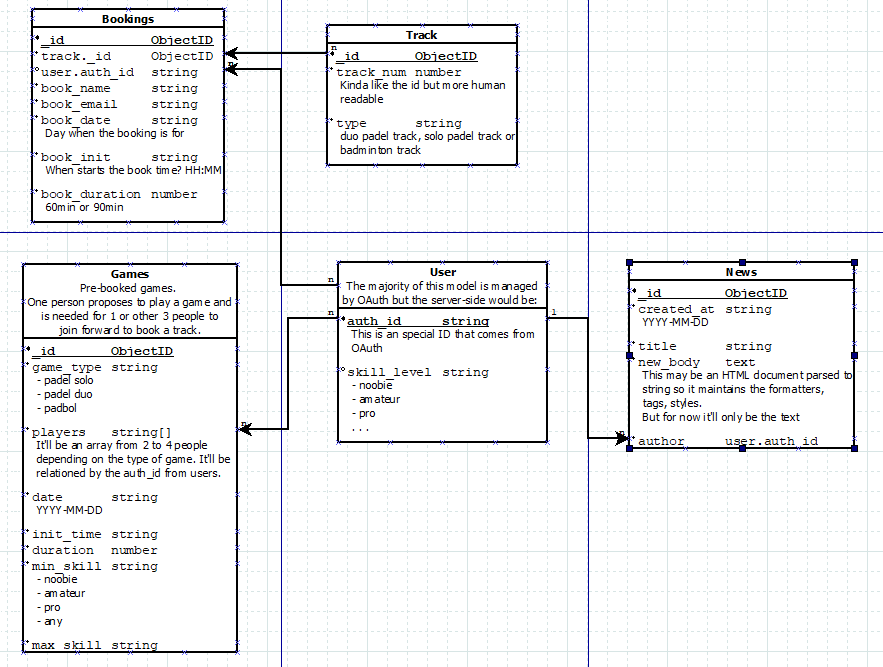
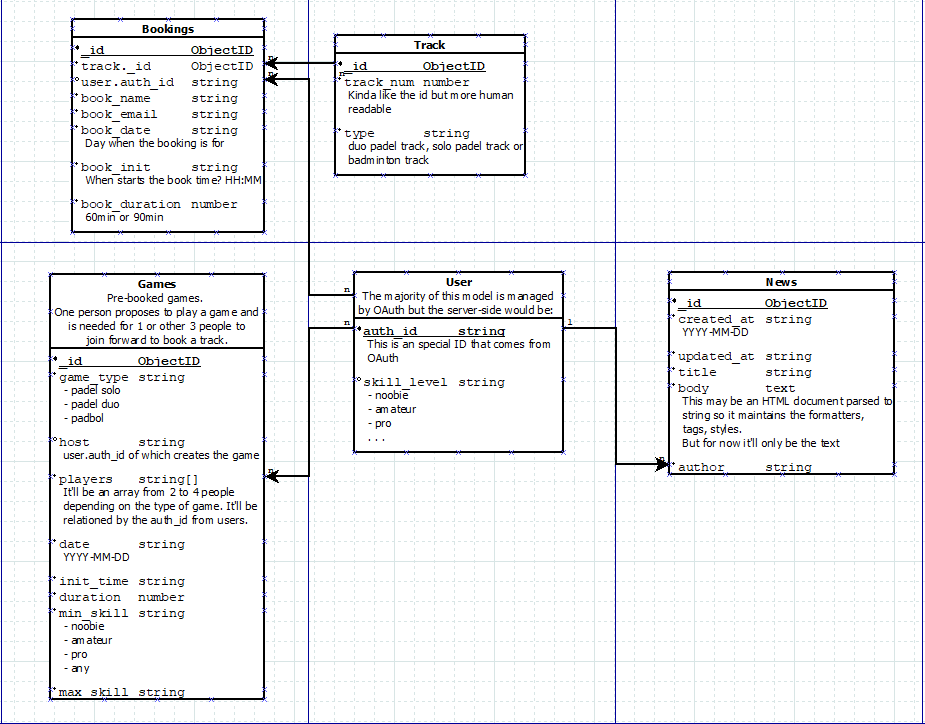
routers for every component

diff --git a/packages/back/src/components/bookings/booking.swagger.ts b/packages/back/src/components/bookings/booking.swagger.ts
@@ -1,5 +1,26 @@
 const TAG_NAME = 'Bookings';
 
+const bookingSchemaRequest = {
+  trackID: { type: 'string' },
+  userID: { type: 'string' },
+  bName: { type: 'string' },
+  bEmail: { type: 'string' },
+  initTime: { type: 'string' },
+  duration: { type: 'number' }
+};
+
+const bookingSchemaResponse = {
+  _id: { type: 'string' },
+  trackID: { type: 'string' },
+  userID: { type: 'string' },
+  bName: { type: 'string' },
+  bEmail: { type: 'string' },
+  bDate: { type: 'string' },
+  initTime: { type: 'string' },
+  endTime: { type: 'string' },
+  duration: { type: 'number' },
+};
+
 export const SMain = {
   schema: {
     description:
@@ -29,15 +50,7 @@ export const SMain = {
         type: 'array',
         items: {
           type: 'object',
-          properties: {
-            trackID: { type: 'string' },
-            userID: { type: 'string' },
-            bName: { type: 'string' },
-            bEmail: { type: 'string' },
-            bDate: { type: 'string' },
-            initTime: { type: 'string' },
-            duration: { type: 'string' },
-          }
+          properties: bookingSchemaResponse
         }
       }
     }
@@ -62,14 +75,7 @@ export const SBooking = {
       description:
         'Everyfield is mandatory EXCEPT userID, in case there\'s '+
         'no user logged you can\'t send an userID',
-      properties: {
-        trackID: { type: 'string' },
-        userID: { type: 'string' },
-        bName: { type: 'string' },
-        bEmail: { type: 'string' },
-        initTime: { type: 'string' },
-        duration: { type: 'number' }
-      }
+      properties: bookingSchemaRequest
     },
     response: {
       '500': {
@@ -83,15 +89,7 @@ export const SBooking = {
       '200': {
         description: 'It will return the created book',
         type: 'object',
-        properties: {
-          trackID: { type: 'string' },
-          userID: { type: 'string' },
-          bName: { type: 'string' },
-          bEmail: { type: 'string' },
-          bDate: { type: 'string' },
-          initTime: { type: 'number' },
-          duration: { type: 'string' },
-        }
+        properties: bookingSchemaResponse
       }
     }
   }

diff --git a/packages/back/src/components/games/game.model.ts b/packages/back/src/components/games/game.model.ts
@@ -1,0 +1,29 @@
+/* eslint-disable max-len */
+import { Schema, model, Document } from 'mongoose';
+
+import { TracksEnum } from '../tracks/track.model';
+import { SkillEnum } from '../users/user.model';
+
+export interface IGame extends Document {
+    gameType: string;
+    host: string;
+    players: string[];
+    date: string;
+    initTime: string;
+    duration: number;
+    minSkill: string;
+    maxSkill: string;
+}
+
+const schema = new Schema<IGame>({
+  gameType: { type: String, required: true, enum: TracksEnum },
+  host: { type: String, required: true },
+  players: { type: [String], required: true, },
+  date: { type: String, required: true, },
+  initTime: { type: String, required: true, },
+  duration: { type: Number, required: true, },
+  minSkill: { type: String, required: false, enum: SkillEnum, default: SkillEnum.any },
+  maxSkill: { type: String, required: false, enum: SkillEnum, default: SkillEnum.any }
+}, { versionKey: false });
+
+export const GameModel = model<IGame>('Game', schema);

diff --git a/packages/back/src/components/games/game.swagger.ts b/packages/back/src/components/games/game.swagger.ts
@@ -1,0 +1,31 @@
+const TAG_NAME = 'Games';
+
+const gameSchemaResponse = {
+  _id: { type: 'string' },
+  gameType: { type: 'string' },
+  host: { type: 'string' },
+  players: { type: 'array', items: { type: 'string' } },
+  date: { type: 'string' },
+  initTime: { type: 'string' },
+  duration: { type: 'number' },
+  minSkill: { type: 'string' },
+  maxSkill: { type: 'string' },
+};
+
+export const SMain = {
+  schema: {
+    description: 'GET Call to recieve an array of all the proposed games',
+    tags: [TAG_NAME],
+    response: {
+      '200': {
+        description:
+        'In case there are no games the array will be empty',
+        type: 'array',
+        items: {
+          type: 'object',
+          properties: gameSchemaResponse
+        }
+      }
+    }
+  }
+};

diff --git a/packages/back/src/components/index.router.ts b/packages/back/src/components/index.router.ts
@@ -4,10 +4,13 @@ import { FastifyApp } from '../types/fastify';
 import { tracksRouter } from './tracks/track.router';
 import { bookingsRouter } from './bookings/booking.router';
 import { usersRouter } from './users/user.router';
-
+import { gamesRouter } from './games/game.router';
+import { newsRouter } from './news/news.router';
 
 export const router: FastifyPluginAsync = async (server: FastifyApp) => {
   server.register(usersRouter, {prefix: '/users'});
   server.register(tracksRouter, {prefix: '/tracks'});
   server.register(bookingsRouter, {prefix: '/bookings'});
+  server.register(gamesRouter, {prefix: '/games'});
+  server.register(newsRouter, {prefix: '/news'});
 };

diff --git a/packages/back/src/components/news/news.swagger.ts b/packages/back/src/components/news/news.swagger.ts
@@ -1,0 +1,28 @@
+const TAG_NAME = 'News';
+
+const newsSchemaResponse = {
+  _id: { type: 'string' },
+  created_at: { type: 'string' },
+  updated_at: { type: 'string' },
+  title: { type: 'string' },
+  body: { type: 'string' },
+  author: { type: 'string' },
+};
+
+export const SMain = {
+  schema: {
+    description: 'GET Call to recieve an array of all the news',
+    tags: [TAG_NAME],
+    response: {
+      '200': {
+        description:
+        'In case there are no news the array will be empty',
+        type: 'array',
+        items: {
+          type: 'object',
+          properties: newsSchemaResponse
+        }
+      }
+    }
+  }
+};

diff --git a/packages/back/src/components/tracks/track.swagger.ts b/packages/back/src/components/tracks/track.swagger.ts
@@ -1,5 +1,11 @@
 const TAG_NAME = 'Tracks';
 
+const tracksSchemaResponse = {
+  '_id': { type: 'string' },
+  'trackNum': { type: 'number' },
+  'trackType': { type: 'string' }
+};
+
 export const SMain = {
   schema: {
     description:
@@ -12,12 +18,7 @@ export const SMain = {
         type: 'array',
         items: {
           type: 'object',
-          properties: {
-            '_id': { type: 'string' },
-            'trackNum': { type: 'number' },
-            'trackType': { type: 'string' },
-            '__v': { type: 'number' }
-          }
+          properties: tracksSchemaResponse
         }
       }
     }

diff --git a/packages/back/src/components/users/user.swagger.ts b/packages/back/src/components/users/user.swagger.ts
@@ -1,5 +1,10 @@
 const TAG_NAME = 'Users';
 
+const userSchemaResponse = {
+  authID: { type: 'string' },
+  skillLevel: { type: 'string' },
+};
+
 export const SMain = {
   schema: {
     description: 'GET Call to recieve an information of a specific user',
@@ -30,10 +35,7 @@ export const SMain = {
       },
       '200': {
         type: 'object',
-        properties: {
-          authID: { type: 'string' },
-          skillLevel: { type: 'string' },
-        }
+        properties: userSchemaResponse
       }
     }
   }

diff --git a/packages/back/src/components/users/user.model.ts b/packages/back/src/components/users/user.model.ts
@@ -5,6 +5,7 @@ export enum SkillEnum {
     noobie = 'noobie',
     amateur = 'amateur',
     pro = 'professional',
+    any = 'any'
 }
 
 export interface IUser extends Document {
@@ -15,6 +16,6 @@ export interface IUser extends Document {
 const schema = new Schema<IUser>({
   authID: { type: String, required: true, trim: true },
   skillLevel: { type: String, required: false, enum: SkillEnum, trim: true }
-});
+}, { _id: false, versionKey: false });
 
 export const UserModel = model<IUser>('User', schema);

diff --git a/packages/back/src/components/news/news.model.ts b/packages/back/src/components/news/news.model.ts
@@ -1,0 +1,15 @@
+import { Schema, model, Document } from 'mongoose';
+
+export interface INews extends Document {
+    title: string;
+    body: string;
+    author: string;
+};
+
+const schema = new Schema<INews>({
+  title: { type: String, required: true },
+  body: { type: String, required: true },
+  author: { type: String, required: true }
+}, { versionKey: false, timestamps: true });
+
+export const NewsModel = model<INews>('News', schema);

diff --git a/packages/back/src/components/games/game.controller.ts b/packages/back/src/components/games/game.controller.ts
@@ -1,0 +1,15 @@
+import { FastifyReply, FastifyRequest } from 'fastify';
+
+import { GameModel } from './game.model';
+
+type AddRequest = FastifyRequest<any>
+
+export class GameController {
+  static main = async (request: FastifyRequest, reply: FastifyReply) => {
+    return await GameModel.find().lean();
+  };
+
+  static addProposal = async (request: AddRequest, reply: FastifyReply) => {
+
+  };
+}

diff --git a/packages/back/src/components/games/game.router.ts b/packages/back/src/components/games/game.router.ts
@@ -1,0 +1,9 @@
+import { FastifyPluginAsync } from 'fastify';
+
+import { FastifyApp } from '../../types/fastify';
+import { GameController } from './game.controller';
+import { SMain } from './game.swagger';
+
+export const gamesRouter: FastifyPluginAsync = async (server: FastifyApp) => {
+  server.get('/', SMain, GameController.main);
+};

diff --git a/packages/back/src/components/news/news.router.ts b/packages/back/src/components/news/news.router.ts
@@ -1,0 +1,9 @@
+import { FastifyPluginAsync } from 'fastify';
+
+import { FastifyApp } from '../../types/fastify';
+import { NewsController } from './news.controller';
+import { SMain } from './news.swagger';
+
+export const newsRouter: FastifyPluginAsync = async (server: FastifyApp) => {
+  server.get('/', SMain, NewsController.main);
+};
